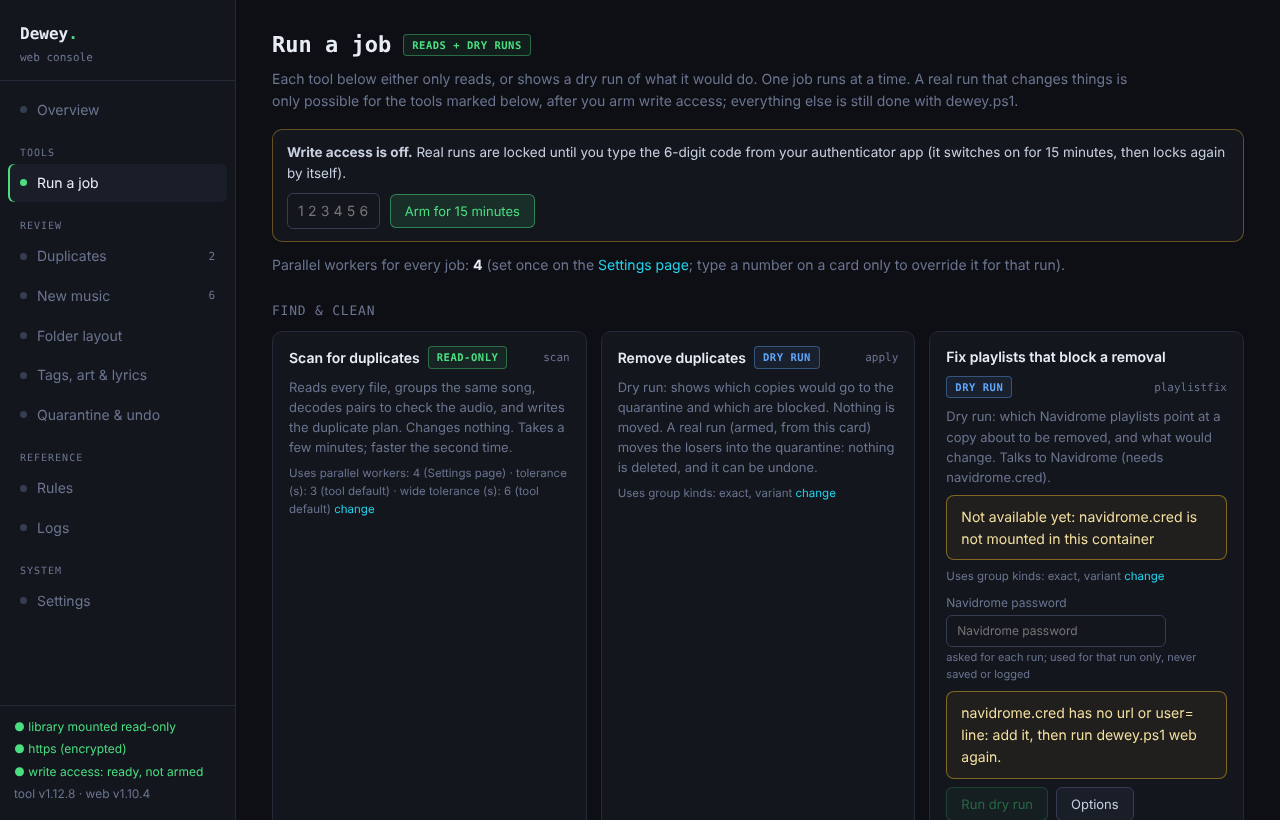
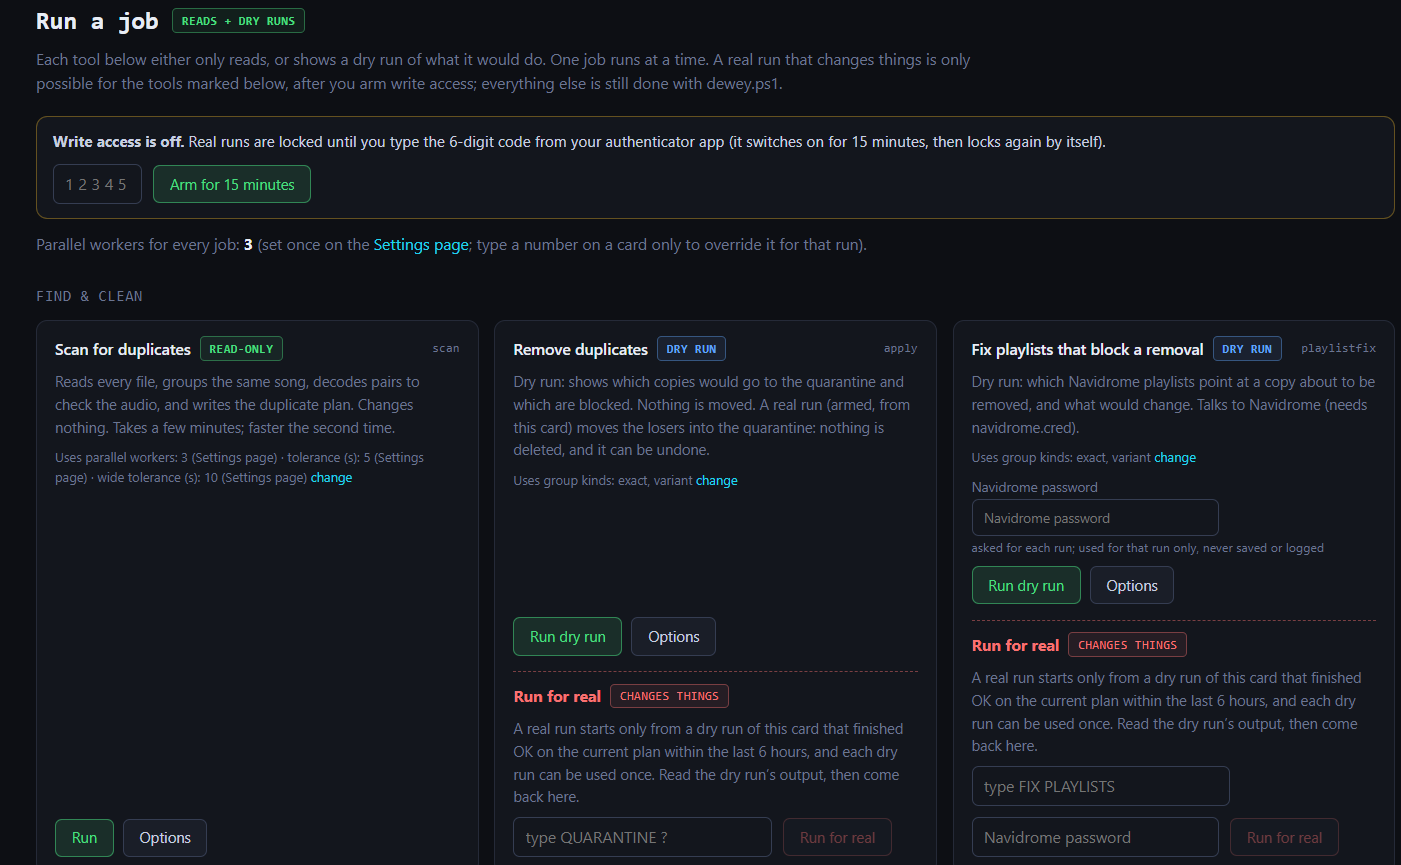
Retake README screenshots, fix 1 group wording

diff --git a/web/app.js b/web/app.js
@@ -546,7 +546,7 @@ function suggestPanel(sg) {
       copyBtn, h('button', { class: 'btn small', onclick: () => { Object.keys(PICK).forEach(k => delete PICK[k]); draw(); } }, 'clear ticks'), count),
     list);
   draw();
-  const head = h('button', { class: 'btn', onclick: () => { body.hidden = !body.hidden; } }, 'Suggested rules (' + sg.groups.length + ' groups waiting for a decision)');
+  const head = h('button', { class: 'btn', onclick: () => { body.hidden = !body.hidden; } }, 'Suggested rules (' + sg.groups.length + (sg.groups.length === 1 ? ' group' : ' groups') + ' waiting for a decision)');
   return h('div', { class: 'sug-panel' }, head, '  ', h('a', { href: '/out/suggested-rules.txt', download: 'suggested-rules.txt', class: 'dim' }, 'suggested-rules.txt'),
     sg.rules_changed ? h('div', { class: 'notice warn' }, 'rules.txt changed after this scan, so some suggestions may already be done or out of date. Rescan to refresh them.') : null, body);
 }

diff --git a/README.md b/README.md
@@ -6,8 +6,6 @@ I wrote it for my own library, which lives on a Synology NAS with Navidrome, and
 
 *Named after the Dewey Decimal system. Every item gets one right place on the shelf.*
 
-Version: tool 1.13.0, web console 1.11.0.
-
 ![The overview page of the web console](docs/screenshots/overview.png)
 
 ## What it does
@@ -35,10 +33,14 @@ python3 demo/make_demo.py
 
 That builds a small invented library (generated tones, made-up artists) with duplicates, a playlist that blocks one of them, badly named files and a folder of new music. You can run every dry run on it and click around the console before you point Dewey at anything real. The steps are in [`demo/README.md`](demo/README.md).
 
+Suggested rules: every group waiting for a decision gets copy-and-paste `rules.txt` lines.
+
 | | |
 |---|---|
-| ![Duplicate groups](docs/screenshots/duplicates.png) | ![The folder layout plan](docs/screenshots/layout.png) |
-| ![New music waiting to be filed](docs/screenshots/new-music.png) | ![The Run page](docs/screenshots/run.png) |
+| ![Suggested rules panel](docs/screenshots/duplicates.png) | ![One duplicate group with its options](docs/screenshots/suggested-rules.png) |
+| ![The folder layout plan](docs/screenshots/layout.png) | ![New music waiting to be filed](docs/screenshots/new-music.png) |
+
+![The Run page](docs/screenshots/run.png)
 
 ## Install
 
@@ -52,7 +54,7 @@ docker compose up -d            # starts the read-only console on http://127.0.0
 docker compose --profile tools run --rm dewey scan    # a read-only scan from the command line
 ```
 
-There's also a Windows launcher that drives a NAS over ssh, which is how I run it. Both routes, the optional runner, and fixes for the usual snags are in [`docs/INSTALL.md`](docs/INSTALL.md). Compose files pass `docker compose config` and the test suite, but I haven't run them on many setups, so tell me what you find.
+There's also a Windows launcher that drives a NAS over ssh, which is how I run it. Both routes, the optional runner, and fixes for the usual snags are in [`docs/INSTALL.md`](docs/INSTALL.md). I've run the Compose setup on my own NAS but on few other setups, so tell me what you find.
 
 ## Using it
 

diff --git a/docs/INSTALL.md b/docs/INSTALL.md
@@ -19,7 +19,7 @@ docker compose --profile tools run --rm dewey scan      # a command-line scan (r
 - **Beets:** set `DEWEY_BEETS` and `COMPOSE_FILE=docker-compose.yml:compose.beets.yml` in `.env` (see `compose.beets.yml`).
 - **Reaching the console from other devices:** keep `DEWEY_WEB_BIND=127.0.0.1` and put HTTPS in front of it (a reverse proxy, Tailscale Serve). Never publish it on the internet.
 - **Updating:** `git pull`, then `docker compose build` and `docker compose up -d` (add `--profile runner` if you use the runner).
-- The Compose files have been validated with `docker compose config`, and the code is covered by the project's tests; **running them on a real Docker host is still new**. Please report what you find.
+- The Compose files pass `docker compose config` for every profile, and I've run the setup on my own Synology NAS (as a separate project with a scratch library: read-only library, https through Tailscale Serve, arming, folder layout, undo and file new music, real and dry). The Beets overlay and a wrong user id haven't been exercised, and I haven't tried other hosts. Please report what you find.
 
 ### Option B: from a Windows PC with ssh (what the author runs on a Synology NAS)
 

diff --git a/.github/ISSUE_TEMPLATE/bug_report.md b/.github/ISSUE_TEMPLATE/bug_report.md
@@ -13,7 +13,7 @@ labels: bug
 ```
 ```
 
-**Versions and install** (footer of the console, e.g. "tool v1.13.0 · web v1.11.0"; Docker Compose or PC launcher; Navidrome / Beets version if relevant)
+**Versions and install** (footer of the console, e.g. "tool v1.x.x · web v1.x.x"; Docker Compose or PC launcher; Navidrome / Beets version if relevant)
 
 **Is anything changed that should not be?** If files were moved wrongly, please do not run anything else on them before reading the `undo` section of the README.
 

diff --git a/demo/README.md b/demo/README.md
@@ -57,8 +57,8 @@ docker compose up -d
 
 Open <http://127.0.0.1:8099>, run **Scan**, **File new music** and **Folder layout** from the Run page, then browse Duplicates, New music and Folder layout.
 
-![Overview](../docs/screenshots/overview.png)
-![Duplicates](../docs/screenshots/duplicates.png)
+![Overview](../docs/screenshots/demo-overview.png)
+![Duplicates](../docs/screenshots/demo-duplicates.png)
 
 ## 4. Try a real run (on the demo only)
 
